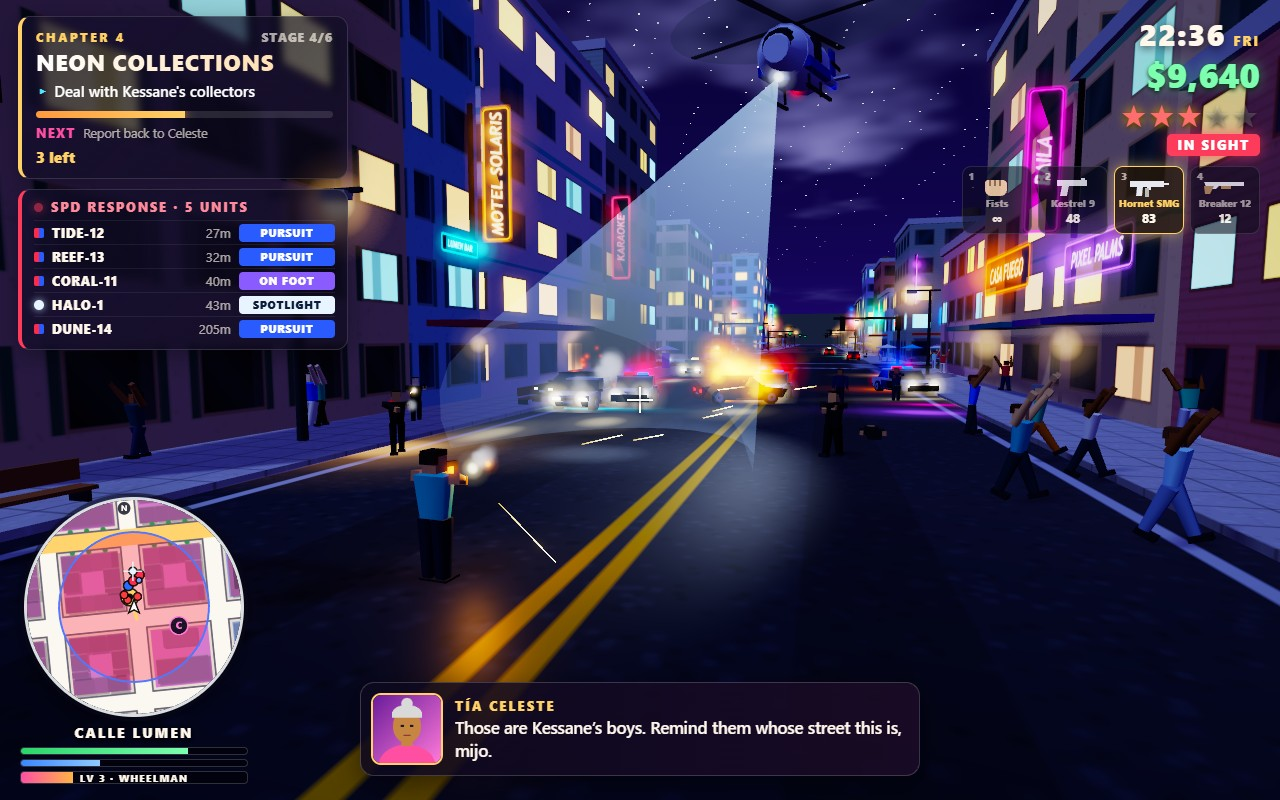
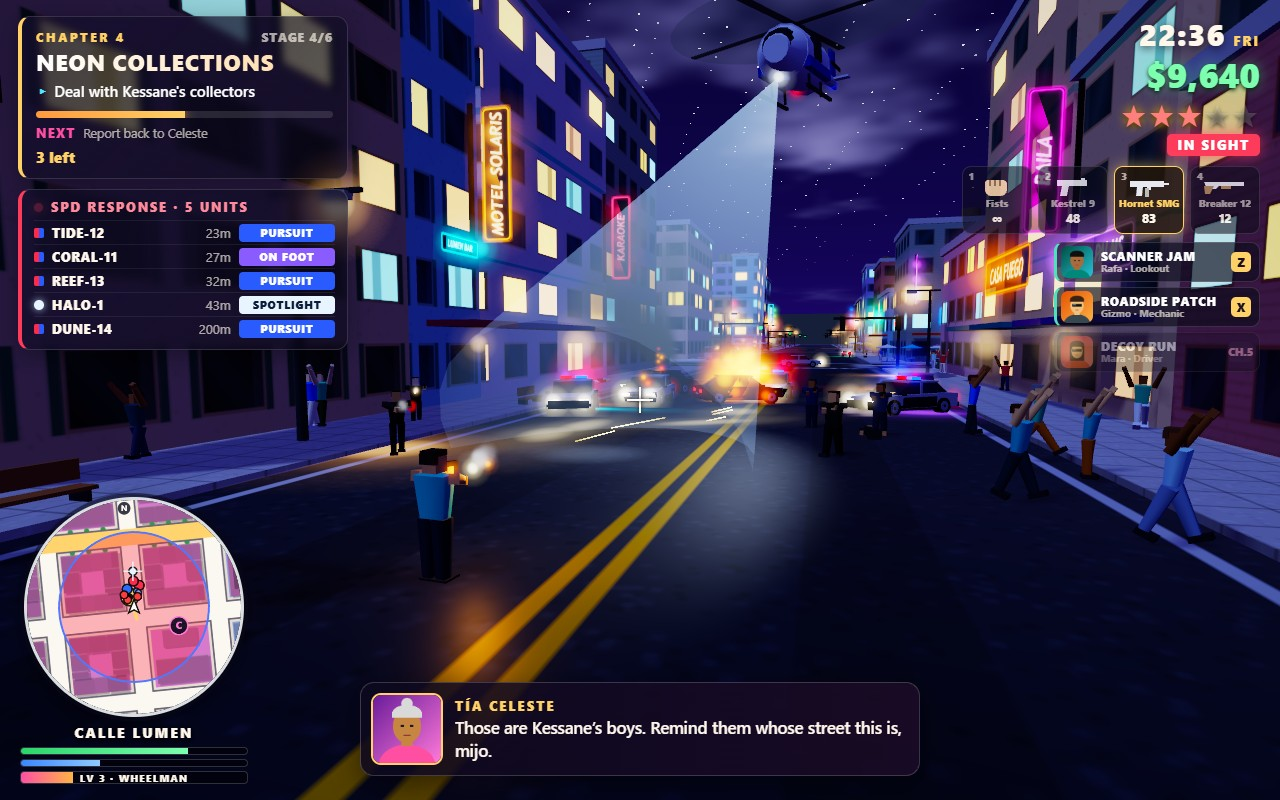
Crew: Rafa jams the scanner, Gizmo patches the car, Mara runs a decoy (Z X C)
Crew members join by chapter and show as compact HUD cards with portraits, hotkeys and
cooldown sweeps. Night shootout: patrol cars pulled into the mid-ground; tracer bolts
that would pass the lens are skipped. README and controls list updated.

diff --git a/game/src/missions/crewAbilities.js b/game/src/missions/crewAbilities.js
@@ -1,0 +1,93 @@
+// Nico's crew: three specialists who join as the story goes on, each with one ability on a
+// hotkey and a cooldown. Rafa (lookout) jams the police scanner so units lose the player;
+// Gizmo (mechanic) patches the car, or tops up armour on foot; Mara (driver) sends a decoy car
+// the other way, dragging the search off and knocking a star off the wanted level.
+
+export const CREW = [
+  {
+    id: 'rafa', key: 'KeyZ', keyLabel: 'Z', role: 'Lookout', ability: 'SCANNER JAM', joinsAt: 2, cooldown: 55,
+    says: 'Scanner’s full of static now. They’re flying blind, go!',
+  },
+  {
+    id: 'gizmo', key: 'KeyX', keyLabel: 'X', role: 'Mechanic', ability: 'ROADSIDE PATCH', joinsAt: 1, cooldown: 45,
+    says: 'Patched. Try to bring it back with four wheels this time.',
+  },
+  {
+    id: 'mara', key: 'KeyC', keyLabel: 'C', role: 'Driver', ability: 'DECOY RUN', joinsAt: 4, cooldown: 90,
+    says: 'Same paint, same plates. I’ll take half of Solenne on a tour of Port Sable.',
+  },
+];
+
+const JAM_SECONDS = 9;
+
+export class CrewAbilities {
+  constructor(game) {
+    this.game = game;
+    this.cooldowns = Object.fromEntries(CREW.map((c) => [c.id, 0]));
+    this.jam = 0;
+    this.lastUsed = null;
+  }
+
+  /** A crew member is on the team once the story reaches their chapter. */
+  joined(member) { return this.game.state.storyIndex >= member.joinsAt; }
+
+  ready(member) { return this.joined(member) && this.cooldowns[member.id] <= 0; }
+
+  update(dt) {
+    for (const id of Object.keys(this.cooldowns)) this.cooldowns[id] = Math.max(0, this.cooldowns[id] - dt);
+    this.jam = Math.max(0, this.jam - dt);
+    const g = this.game;
+    if (!g.player.alive) return;
+    for (const member of CREW) if (g.input.pressed(member.key)) this.use(member);
+  }
+
+  /** Try to use a crew ability. Returns true when it fired. */
+  use(member) {
+    const g = this.game;
+    if (!this.joined(member)) { g.hud.toast(`${g.cast[member.id].name} joins in chapter ${member.joinsAt + 1}`, 2); return false; }
+    if (this.cooldowns[member.id] > 0) { g.hud.toast(`${member.ability} ready in ${Math.ceil(this.cooldowns[member.id])}s`, 1.5); return false; }
+    const effect = this[member.id](g);
+    if (!effect) return false;
+    this.cooldowns[member.id] = member.cooldown;
+    this.lastUsed = member.id;
+    g.hud.toast(`${member.ability}: ${effect}`, 2.5);
+    g.dialogue.play([[member.id, member.says]], g.cast);
+    return true;
+  }
+
+  rafa(g) {
+    if (g.state.wanted === 0) { g.hud.toast('No heat to jam right now', 1.5); return null; }
+    this.jam = JAM_SECONDS;
+    g.police.inSight = false;
+    g.police.unseenTime += 4;
+    return `police blind for ${JAM_SECONDS}s`;
+  }
+
+  gizmo(g) {
+    const v = g.player.vehicle;
+    if (v && !v.dead) {
+      v.body.health = v.def.health;
+      g.particles.sparks(v.body.x, 1, v.body.z, 10);
+      return `${v.def.name} repaired`;
+    }
+    if (g.state.armour >= 100) { g.hud.toast('Armour is already full', 1.5); return null; }
+    g.state.armour = Math.min(100, g.state.armour + 40);
+    return 'armour +40';
+  }
+
+  mara(g) {
+    const police = g.police;
+    if (g.state.wanted === 0) { g.hud.toast('Nobody is chasing you', 1.5); return null; }
+    // the decoy breaks away from the player; the search follows it
+    const p = g.player;
+    const away = Math.atan2(p.x, p.z) + Math.PI + (g.rng() - 0.5);
+    police.lastSeen = { x: p.x + Math.sin(away) * 180, z: p.z + Math.cos(away) * 180 };
+    police.inSight = false;
+    police.unseenTime += 3;
+    police.setWanted(g.state.wanted - 1);
+    return 'one star off, the search turns away';
+  }
+
+  /** True while Rafa's jam keeps the police from spotting the player. */
+  get jamming() { return this.jam > 0; }
+}

diff --git a/game/styles/hud.css b/game/styles/hud.css
@@ -139,3 +139,22 @@ html, body { margin: 0; height: 100%; overflow: hidden; background: #07060f; col
 #banner-title { font-size: 64px; font-weight: 900; letter-spacing: 6px; font-family: Impact, "Arial Black", sans-serif; color: var(--gold); text-shadow: 0 0 24px rgba(255, 160, 40, 0.8), 0 4px 0 #3a1500; }
 #banner-sub { font-size: 20px; font-weight: 800; letter-spacing: 3px; margin-top: 4px; text-shadow: 0 2px 6px #000; }
 #hit-vignette { position: absolute; inset: 0; pointer-events: none; opacity: 0; background: radial-gradient(ellipse at center, transparent 55%, rgba(255, 0, 40, 0.55)); transition: opacity 0.25s; }
+
+/* crew strip: compact cards under the weapon slots */
+.crew-cards { display: flex; flex-direction: column; align-items: flex-end; gap: 5px; margin-top: 8px; }
+.crew-card { position: relative; width: 206px; height: 40px; display: flex; align-items: center; gap: 8px; padding: 0 8px 0 4px; overflow: hidden; text-align: left;
+  border-radius: 9px; background: var(--panel); border: 1px solid var(--panel-edge); border-left: 3px solid #4fe0c0; }
+.crew-card img { width: 32px; height: 32px; border-radius: 7px; flex: none; }
+.crew-card .cc-text { display: flex; flex-direction: column; line-height: 1.12; flex: 1; min-width: 0; }
+.crew-card .cc-text b { font-size: 12px; font-weight: 900; letter-spacing: 0.6px; color: #fff; white-space: nowrap; }
+.crew-card .cc-text span { font-size: 10px; font-weight: 700; color: var(--dim); white-space: nowrap; }
+.crew-card kbd { flex: none; width: 20px; height: 20px; border-radius: 5px; background: #ffd166; color: #1a1020; font: 900 12px/20px system-ui, sans-serif; text-align: center; }
+.crew-card .cc-sweep { position: absolute; left: 0; bottom: 0; height: 3px; background: #ff4f8a; }
+.crew-card .cc-time { position: absolute; right: 6px; top: 9px; min-width: 24px; height: 20px; border-radius: 5px; font-style: normal; font: 900 10.5px/20px system-ui, sans-serif;
+  text-align: center; color: #ffb3c8; background: #241a36; display: none; }
+.crew-card:not([data-state="ready"]) .cc-time { display: block; }
+.crew-card[data-state="cooling"] { border-left-color: #ff4f8a; }
+.crew-card[data-state="cooling"] img, .crew-card[data-state="cooling"] kbd { filter: grayscale(0.7) brightness(0.7); }
+.crew-card[data-state="active"] { border-left-color: #7dffaf; box-shadow: 0 0 12px rgba(125, 255, 175, 0.5); }
+.crew-card[data-state="active"] .cc-time { color: #7dffaf; }
+.crew-card[data-state="locked"] { opacity: 0.45; border-left-color: #777; }

diff --git a/game/src/ui/crewCards.js b/game/src/ui/crewCards.js
@@ -1,0 +1,37 @@
+// The crew strip on the HUD: one compact card per crew member with a portrait, the ability,
+// the name and role, the hotkey, and a cooldown sweep (or the chapter they join in).
+import { CREW } from '../missions/crewAbilities.js';
+import { portraitDataUrl } from '../render/proceduralTextures.js';
+
+export class CrewCards {
+  constructor(game) {
+    this.game = game;
+    this.root = document.getElementById('crew-cards');
+    this.cards = CREW.map((member) => {
+      const who = game.cast[member.id];
+      const el = document.createElement('div');
+      el.className = 'crew-card';
+      el.innerHTML = `<img alt="" src="${portraitDataUrl(who.portrait)}"><div class="cc-text"><b>${member.ability}</b>`
+        + `<span>${who.name.split(' ')[0]} · ${member.role}</span></div><kbd>${member.keyLabel}</kbd><i class="cc-sweep"></i><em class="cc-time"></em>`;
+      this.root.appendChild(el);
+      return { member, el, sweep: el.querySelector('.cc-sweep'), time: el.querySelector('.cc-time'), state: '' };
+    });
+  }
+
+  update() {
+    const crew = this.game.crew;
+    for (const c of this.cards) {
+      const left = crew.cooldowns[c.member.id];
+      let state = 'ready';
+      if (!crew.joined(c.member)) state = 'locked';
+      else if (c.member.id === 'rafa' && crew.jamming) state = 'active';
+      else if (left > 0) state = 'cooling';
+      if (state !== c.state) { c.el.dataset.state = state; c.state = state; }
+      if (state === 'locked') c.time.textContent = `CH.${c.member.joinsAt + 1}`;
+      else if (state === 'active') c.time.textContent = `${Math.ceil(crew.jam)}s`;
+      else if (state === 'cooling') c.time.textContent = `${Math.ceil(left)}s`;
+      else c.time.textContent = '';
+      c.sweep.style.width = state === 'cooling' ? `${(left / c.member.cooldown) * 100}%` : '0%';
+    }
+  }
+}

diff --git a/game/src/combat/combatSystem.js b/game/src/combat/combatSystem.js
@@ -119,15 +119,15 @@ export class CombatSystem {
       t.life -= dt;
       if (t.life <= 0) { this.tracers.splice(i, 1); continue; }
       if (n >= this.maxTracers) continue;
-      // a bolt passing right by the lens would draw as a long scratch across the frame
-      const cam = this.game.camera.position;
-      if (Math.hypot(t.bx - cam.x, t.bz - cam.z) < 7 || Math.hypot(t.ax - cam.x, t.az - cam.z) < 4) continue;
       const k = n * 6;
       const len = Math.hypot(t.bx - t.ax, t.by - t.ay, t.bz - t.az) || 1;
       const head = Math.min(1, 0.25 + 0.75 * (1 - t.life / TRACER_LIFE));
       const tail = Math.max(0, head - TRACER_LENGTH / len);
       const at = (f) => [t.ax + (t.bx - t.ax) * f, t.ay + (t.by - t.ay) * f, t.az + (t.bz - t.az) * f];
-      this.tracerPos.set([...at(tail), ...at(head)], k);
+      const from = at(tail), to = at(head);
+      // a bolt passing right by the lens would draw as a long scratch across the frame
+      if (distanceToSegment(this.game.camera.position, from, to) < 6) continue;
+      this.tracerPos.set([...from, ...to], k);
       this.tracerCol.set([0.5, 0.3, 0.08, 2.6, 2.1, 0.9], k);
       if (head >= 1) glow.push(t.bx, t.by, t.bz, 0xffc070, 0.6, 0, 1);
       n += 1;
@@ -156,4 +156,12 @@ function rayCylinder(ox, oz, dx, dz, cx, cz, r) {
   const perp2 = fx * fx + fz * fz - along * along;
   if (perp2 > r * r) return null;
   return (along - Math.sqrt(r * r - perp2)) / len;
+}
+
+/** Distance from point p to the segment a-b (both [x, y, z]). */
+function distanceToSegment(p, a, b) {
+  const dx = b[0] - a[0], dy = b[1] - a[1], dz = b[2] - a[2];
+  const l2 = dx * dx + dy * dy + dz * dz || 1;
+  const f = Math.max(0, Math.min(1, ((p.x - a[0]) * dx + (p.y - a[1]) * dy + (p.z - a[2]) * dz) / l2));
+  return Math.hypot(a[0] + dx * f - p.x, a[1] + dy * f - p.y, a[2] + dz * f - p.z);
 }

diff --git a/game/src/shots/screenshotDirector.js b/game/src/shots/screenshotDirector.js
@@ -162,6 +162,7 @@ const SCENES = {
     game.cameraRig.snapBehind(pb.heading);
     game.cameraRig.pitch = 0.12;
     for (let i = 0; i < 30; i += 1) game.cameraRig.update(STEP, { vehicle: v, position: game.player.figure });
+    game.crew.cooldowns.gizmo = 28; // Gizmo patched the Vireo a few blocks back
     game.dialogue.pin('juno', 'Cops on Ocean Parade! Stay on the gas, the causeway is two blocks up!', game.cast);
     game.audio.radio = { nowPlaying: { station: 'SOLAR FM 101.3', title: 'Causeway Lights', artist: 'VHS Lagoon', art: 'linear-gradient(135deg,#ff4fa3,#ffb347)' } };
     game.cameraRig.shake = 0;
@@ -194,11 +195,11 @@ const SCENES = {
     const wreck = game.vehicles.spawn('sedan', -409, -250, -0.5, { role: 'parked', paint: 0x2a2a30 });
     game.vehicles.explode(wreck);
     game.police.setWanted(2);
-    const u = addUnit(game, 'patrol', -392, -254, 0.35, 4);
+    const u = addUnit(game, 'patrol', -393.5, -241, -0.9, 2);
     u.status = 'ON FOOT';
     u.deployed = true;
     game.police.deployOfficers(u, 2);
-    addUnit(game, 'patrol', -410, -262, 0.05, 12);
+    addUnit(game, 'patrol', -411, -252, 0.5, 6);
     addUnit(game, 'patrol', -397, -285, 0, 14);
     game.peds.scare(-402, -225, 60, false);
     const p = game.player;
@@ -330,6 +331,7 @@ const SCENES = {
     game.cameraRig.pitch = 0.2;
     game.cameraRig.orbitIdle = -10;
     for (let i = 0; i < 30; i += 1) game.cameraRig.update(STEP, { vehicle: bike, position: game.player.figure });
+    game.crew.cooldowns.mara = 61;
     game.dialogue.pin('dispatch', 'All units: motorcycle eastbound on the Halcyon Causeway. Close the island road!', game.cast);
     game.audio.radio = { nowPlaying: { station: 'RADIO CALOR 94.7', title: 'Noche de Verano', artist: 'Santa Brisa', art: 'linear-gradient(135deg,#ff3b3b,#ffd166)' } };
     game.cameraRig.shake = 0;

diff --git a/game/src/core/game.js b/game/src/core/game.js
@@ -31,6 +31,8 @@ import { TrafficAI } from '../ai/trafficAI.js';
 import { PoliceDispatch } from '../ai/policeDispatch.js';
 import { MissionRunner } from '../missions/missionRunner.js';
 import { SideActivities } from '../missions/sideActivities.js';
+import { CrewAbilities } from '../missions/crewAbilities.js';
+import { CrewCards } from '../ui/crewCards.js';
 import { CAST } from '../missions/castOfCharacters.js';
 import { HudOverlay } from '../ui/hudOverlay.js';
 import { DialogueBox } from '../ui/dialogueBox.js';
@@ -127,7 +129,9 @@ export class Game {
     this.dialogue = new DialogueBox(this);
     this.missions = new MissionRunner(this);
     this.activities = new SideActivities(this);
+    this.crew = new CrewAbilities(this);
     this.hud = new HudOverlay(this);
+    this.crewCards = new CrewCards(this);
     this.cityMap = paintCityMap(this.collision);
     this.hudMinimap = new Minimap(document.getElementById('minimap'), this, this.cityMap);
     this.mapScreen = new MapScreen(this, this.cityMap);
@@ -318,6 +322,7 @@ export class Game {
     if (!this.freezeClock) this.state.hour = (this.state.hour + dt / 60) % 24;
     this.roads.updateSignals(this.clock);
     this.player.update(dt);
+    this.crew.update(dt);
     if (this.autopilot) this.autopilot(dt);
     this.traffic.update(dt);
     this.police.update(dt);
@@ -404,6 +409,7 @@ export class Game {
     this.post.render(this.scene, this.camera);
     if (this.running) {
       this.hud.update(dt);
+      this.crewCards.update();
       this.hudMinimap.draw(dt);
     }
   }

diff --git a/game/src/missions/castOfCharacters.js b/game/src/missions/castOfCharacters.js
@@ -17,6 +17,14 @@ export const CAST = {
     name: 'Juno Vale', role: 'Night DJ on Radio Sal 99.1, trades in secrets',
     portrait: { bg: ['#3a0ca3', '#c38bff'], skin: '#8d5524', hair: '#ff6fb5', shirt: '#7b2cbf', hairStyle: 'long' },
   },
+  rafa: {
+    name: 'Rafa Quintero', role: 'Lookout, rooftop radio ham, hears every police band',
+    portrait: { bg: ['#004d40', '#26c6da'], skin: '#a86b3c', hair: '#0f0f0f', shirt: '#00897b', hairStyle: 'short' },
+  },
+  mara: {
+    name: 'Mara Solís', role: 'Getaway driver, never the same car twice',
+    portrait: { bg: ['#b71c1c', '#ff8a65'], skin: '#e0ac69', hair: '#2a1a12', shirt: '#d84315', hairStyle: 'long', shades: true },
+  },
   halloran: {
     name: 'Det. Ines Halloran', role: 'Solenne PD, for sale to the right buyer',
     portrait: { bg: ['#14213d', '#4a6fa5'], skin: '#ffdbac', hair: '#6b4423', shirt: '#14213d', hairStyle: 'long', badge: true },

diff --git a/game/src/ai/policeDispatch.js b/game/src/ai/policeDispatch.js
@@ -131,7 +131,8 @@ export class PoliceDispatch {
     this.sightTimer -= dt;
     if (this.sightTimer <= 0 && this.wanted > 0) {
       this.sightTimer = 0.25;
-      this.inSight = this.copCanSee(p.x, p.z, 110) || this.heli.canSee();
+      // Rafa's scanner jam leaves every unit blind for a few seconds
+      this.inSight = !g.crew?.jamming && (this.copCanSee(p.x, p.z, 110) || this.heli.canSee());
       if (this.inSight) { this.lastSeen = { x: p.x, z: p.z }; this.unseenTime = 0; }
     }
     if (this.wanted > 0) {

diff --git a/game/src/ui/gameMenus.js b/game/src/ui/gameMenus.js
@@ -10,6 +10,7 @@ const CONTROLS = [
   ['Space', 'Handbrake'], ['Shift', 'Sprint'], ['RMB / LMB', 'Aim / fire'],
   ['1-4 · Wheel', 'Weapons'], ['R', 'Radio station'], ['E', 'Shop / interact'],
   ['T', 'Races · fares · jobs'], ['M', 'Map'], ['V', 'Camera view'], ['Esc', 'Pause'],
+  ['Z X C', 'Crew: jam · patch · decoy'],
 ];
 
 export class GameMenus {

diff --git a/game/index.html b/game/index.html
@@ -32,6 +32,7 @@
     <div id="wanted" class="wanted"></div>
     <div id="sight" class="sight hidden">IN SIGHT</div>
     <div id="weapons" class="weapons"></div>
+    <div id="crew-cards" class="crew-cards"></div>
   </section>
 
   <section id="radio-card" class="panel hidden">

diff --git a/README.md b/README.md
@@ -4,9 +4,9 @@
 [![rank](https://make.fun/badge/gta6-01/leminhtri1/solenne-nights/rank.svg)](https://make.fun/bounty/gta6-01/leaderboard?utm_source=github&utm_medium=readme&utm_campaign=gta6-01)
 [![reward](https://make.fun/badge/gta6-01/leminhtri1/solenne-nights/reward.svg)](https://make.fun/bounty/gta6-01?utm_source=github&utm_medium=readme&utm_campaign=gta6-01)
 
-SOLENNE NIGHTS is an original open-world crime game in three.js: steal any car, bike or boat in the sun-soaked bay city of Solenne, outrun a five-star police response (ramming and window-firing patrol cars, roadblocks, tactical vans and the HALO-1 searchlight helicopter), and play nine story chapters against the developer Victor Kessane, from golden hour to neon night. Streets are full of traffic, pedestrians who duck and run, cafés, food carts and bus shelters; between chapters there are street races, taxi fares, deliveries, 24 Sun Tokens and engine, tyre and armour upgrades at Chromatica Customs. The HUD has a colour city minimap with the police search zone, a WANTED banner, the response roster, named weapons, a respect ladder and a full-screen map with the story so far. Everything (city, cars, people, music, sound) is generated in code and runs from static files.
+SOLENNE NIGHTS is an original open-world crime game in three.js: steal any car, bike or boat in the sun-soaked bay city of Solenne, outrun a five-star police response (ramming and window-firing patrol cars, roadblocks, tactical vans and the HALO-1 searchlight helicopter), and play nine story chapters against the developer Victor Kessane, from golden hour to neon night. Streets are full of traffic, pedestrians who duck and run, cafés, food carts and bus shelters; between chapters there are street races, taxi fares, deliveries, 24 Sun Tokens and engine, tyre and armour upgrades at Chromatica Customs. A crew joins as the story goes on: Gizmo the mechanic patches your car, Rafa the lookout jams the police scanner and Mara the getaway driver runs a decoy to pull the search away, each on a hotkey with a cooldown. The picture is kept crisp (tight bloom on neon and light bars only, clear air, no motion blur) and the city is drawn in culled tiles so it runs smoothly on an ordinary laptop GPU. The HUD has a colour city minimap with the police search zone, a WANTED banner, the response roster, named weapons, a respect ladder and a full-screen map with the story so far. Everything (city, cars, people, music, sound) is generated in code and runs from static files.
 
-Controls: WASD drive or walk, mouse look and aim, F enter or steal, Space handbrake, V camera view, M map, T jobs, E shops, Esc pause.
+Controls: WASD drive or walk, mouse look and aim, F enter or steal, Space handbrake, V camera view, M map, T jobs, E shops, Z X C crew abilities, Esc pause.
 
 ## Run it
 
